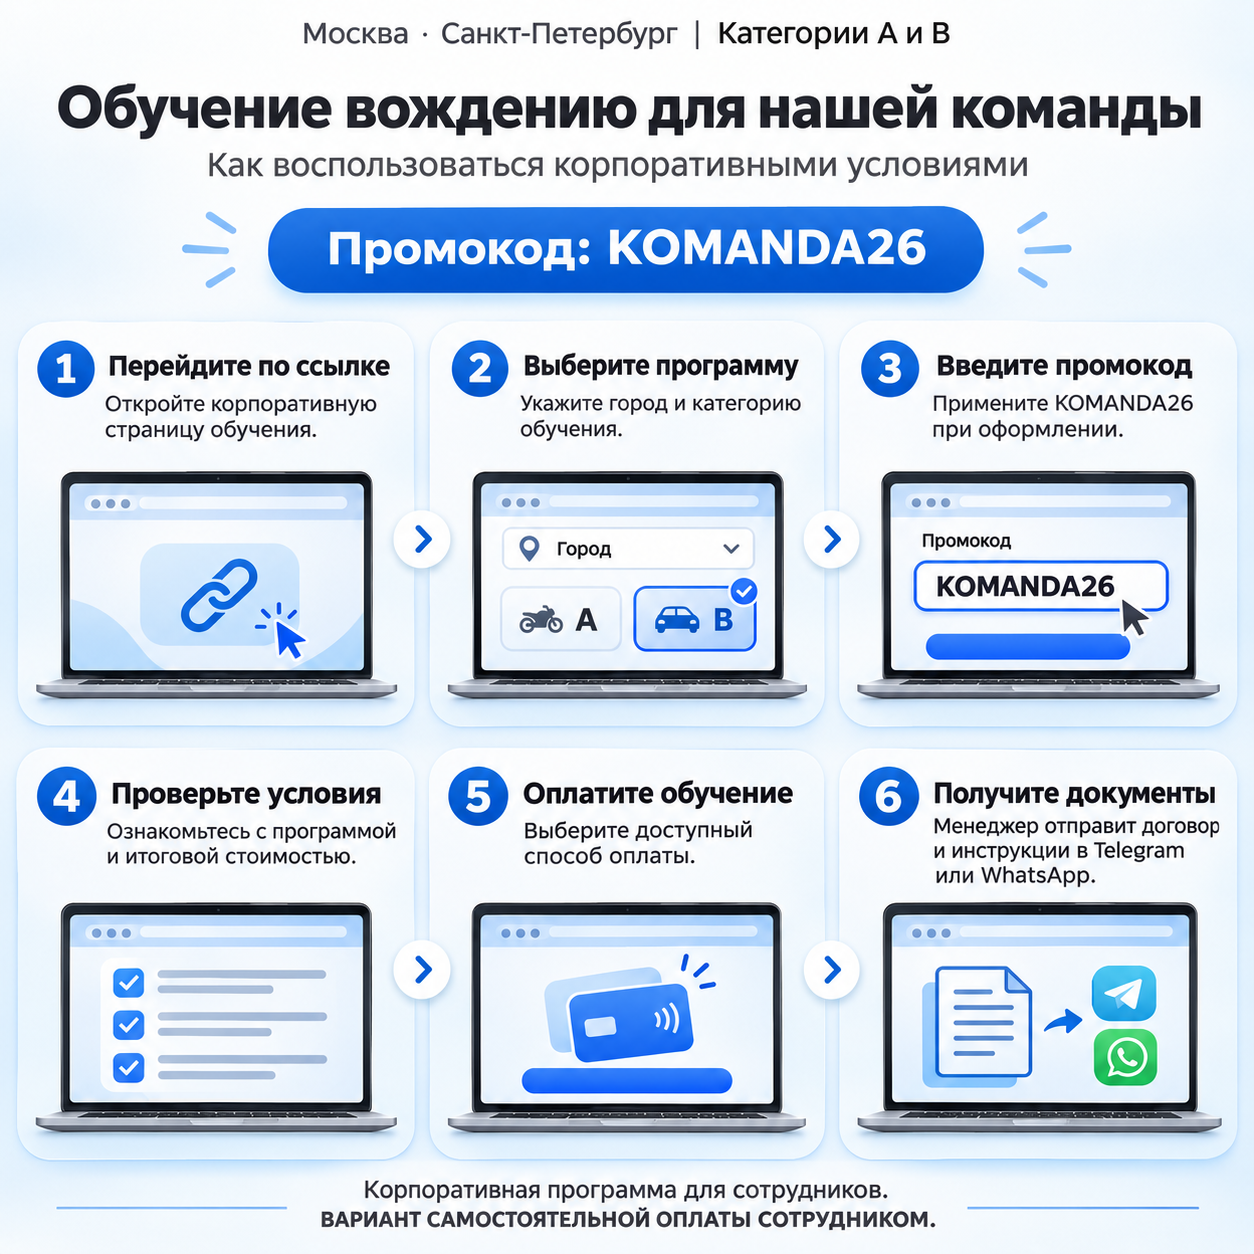
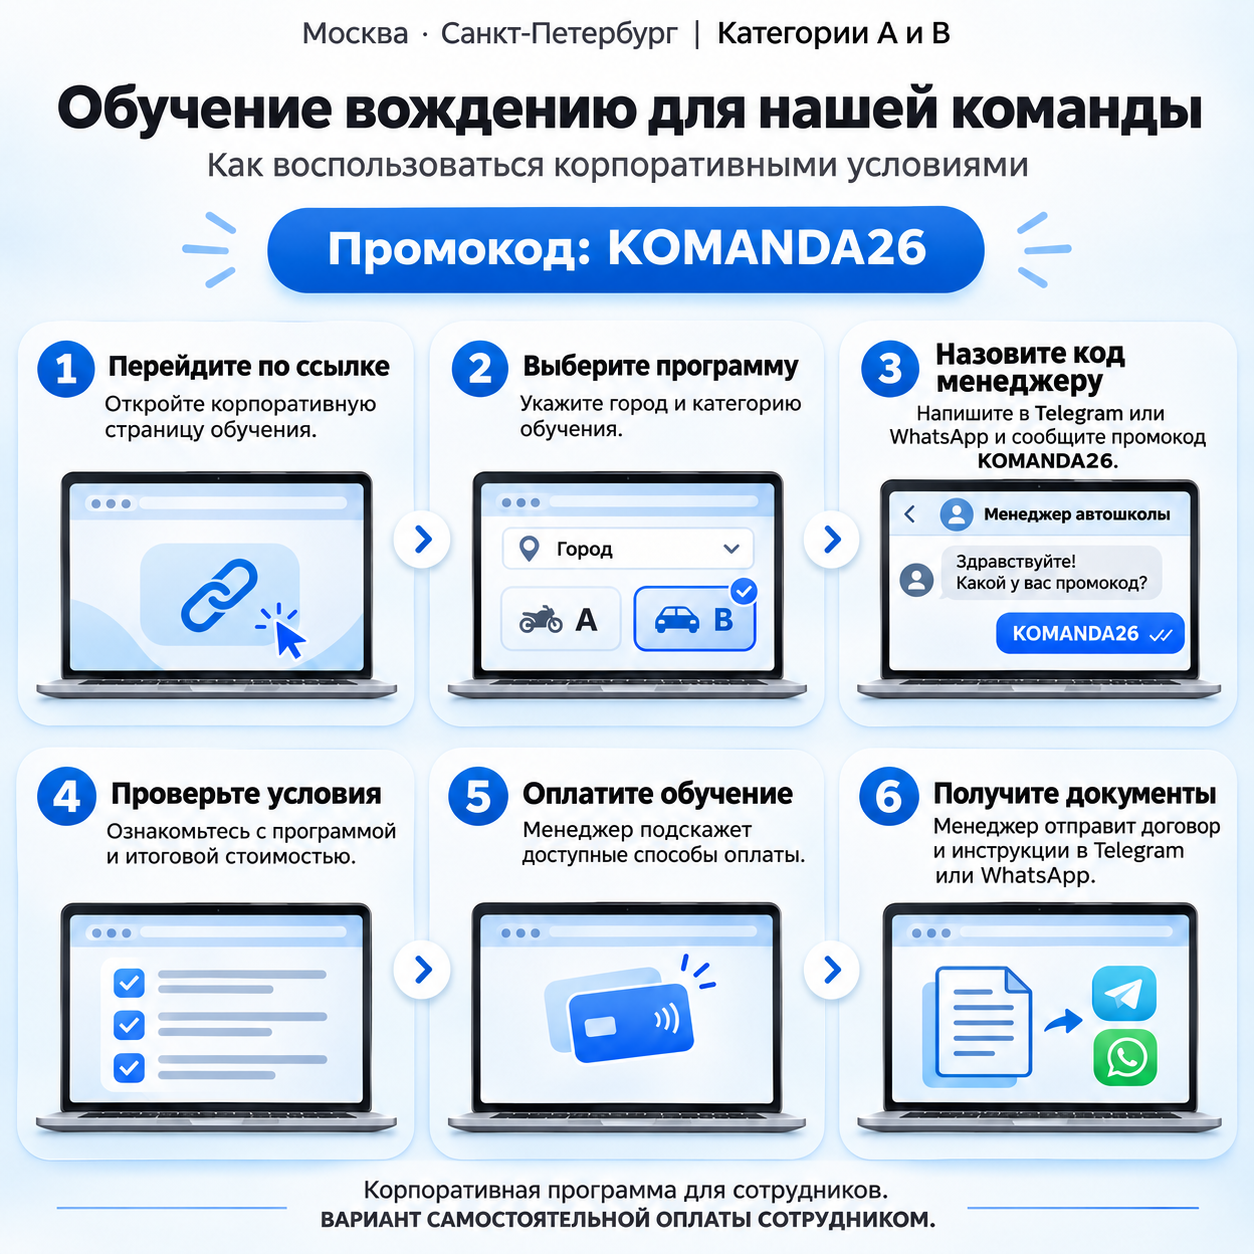
Replace employee self-payment instruction image

diff --git a/src/pages/EmployerLaunch.tsx b/src/pages/EmployerLaunch.tsx
@@ -36,7 +36,7 @@ export function EmployerLaunch({ companyPaid, onRequest }: Props) {
           <article className="employer-announcement" aria-label={companyPaid ? 'Анонс: оплачивает компания' : 'Анонс: сотрудник оплачивает сам'}>
             <div className="employer-chat-sender">HR-команда</div>
             <a className="employer-instruction-preview" href={instructions} target="_blank" rel="noreferrer">
-              <img src={instructions} width={1254} height={1254} loading="lazy" alt={companyPaid ? 'Инструкция по обучению за счёт компании: выбор программы, промокод KOMANDA26, оформление и оплата компанией' : 'Инструкция для сотрудников: выбор программы, промокод KOMANDA26, самостоятельная оплата и получение документов'} />
+              <img src={instructions} width={1254} height={1254} loading="lazy" alt={companyPaid ? 'Инструкция по обучению за счёт компании: выбор программы, промокод KOMANDA26, оформление и оплата компанией' : 'Инструкция для сотрудников: выбор программы, передача промокода KOMANDA26 менеджеру, самостоятельная оплата и получение документов'} />
               <span><strong>Инструкция для сотрудников</strong><span>Открыть изображение<ArrowRight size={16} aria-hidden="true" /></span></span>
             </a>
             <div className="employer-announcement-body">
